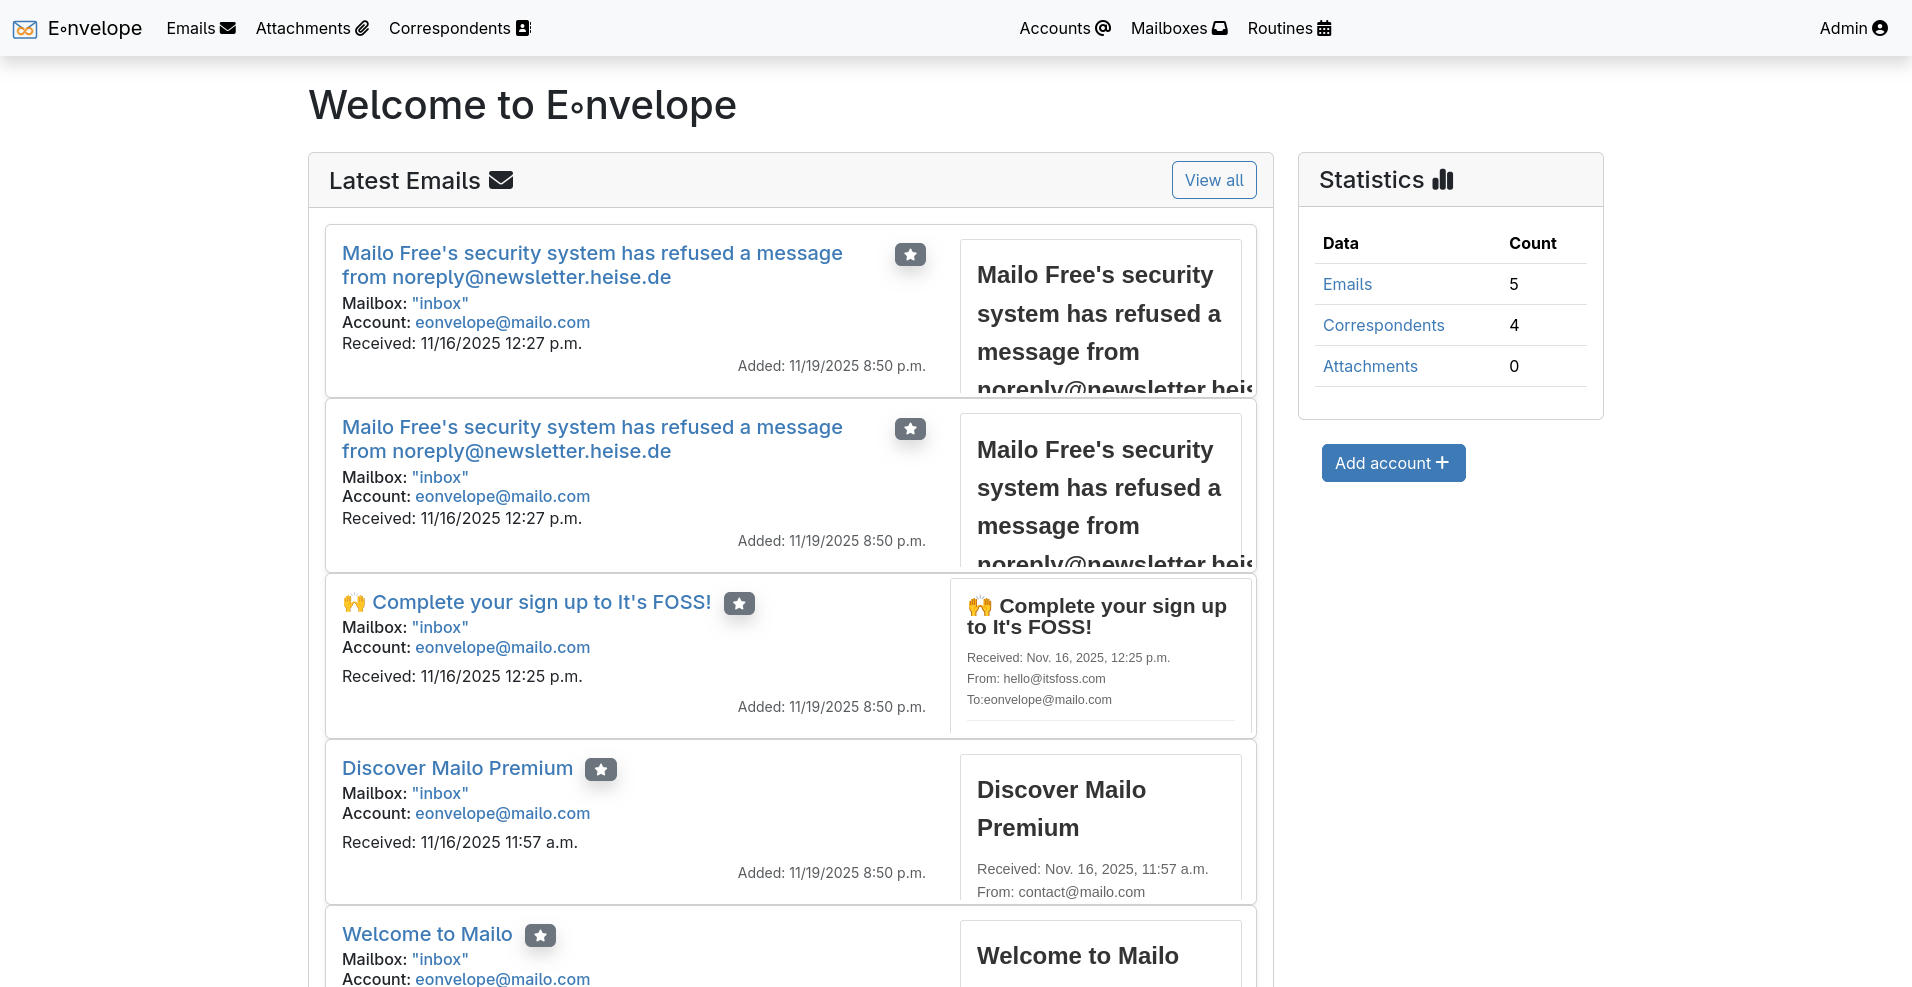
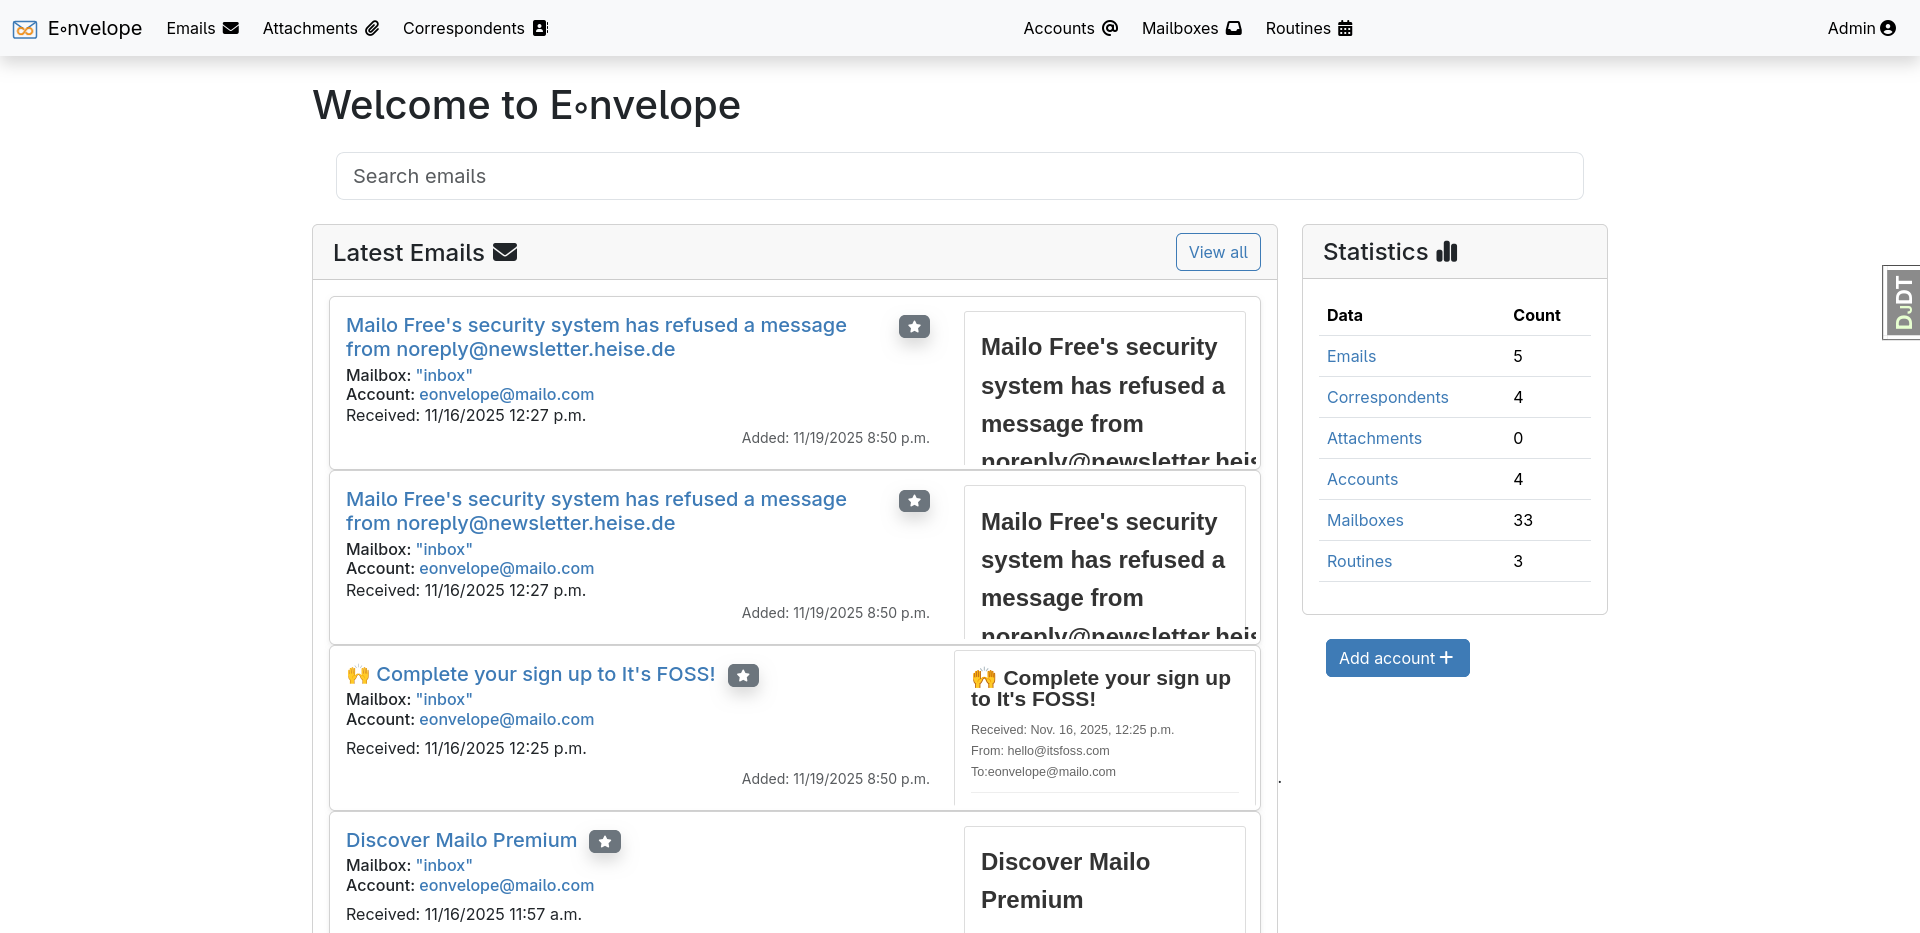
feat (web): email searchbar for dashboard

diff --git a/src/web/templates/web/dashboard.html b/src/web/templates/web/dashboard.html
@@ -2,6 +2,8 @@
 
 {% load translate from i18n %}
 
+{% load static %}
+
 {% block title %}
     {% translate "Dashboard" %} -
 {% endblock title %}
@@ -9,6 +11,12 @@
 {% block content %}
     {# Translators: E∘nvelope is the brand name. The ∘ is the ring operator U+2218. #}
     <h1 class="my-4">{% translate "Welcome to E∘nvelope" %}</h1>
+    <form class="m-4" id="emailSearch">
+        <input type="text"
+               class="form-control form-control-lg"
+               placeholder="{% translate 'Search emails' %}"
+               aria-label="{% translate 'Search emails' %}" />
+    </form>
     <div class="row justify-content-evenly">
         <div class="col-lg-9 order-2 order-lg-1">
             <div class="card">
@@ -96,3 +104,10 @@
         </div>
     </div>
 {% endblock content %}
+
+{% block scripts %}
+    {{ block.super }}
+
+    <script src="{% static 'web/js/email_search.js' %}"></script>
+
+{% endblock scripts %}

diff --git a/src/web/static/web/js/email_search.js b/src/web/static/web/js/email_search.js
@@ -1,0 +1,11 @@
+(() => {
+  document.getElementById("emailSearch").addEventListener("submit", (e) => {
+    e.preventDefault();
+
+    const query = e.currentTarget.querySelector(".input").value.trim();
+    if (query) {
+      const encodedQuery = encodeURIComponent(query);
+      window.location.href = `/emails/?search=${encodedQuery}`;
+    }
+  });
+})();

diff --git a/CHANGELOG.md b/CHANGELOG.md
@@ -5,6 +5,7 @@
 - Features:
   - simplified setup of routines to archive entire mailtraffic of an account
   - mailboxes are automatically retrieved for new accounts
+  - email searchbar on dashboard
 
 - Fixes:
   - data import and export in admin panel was broken
